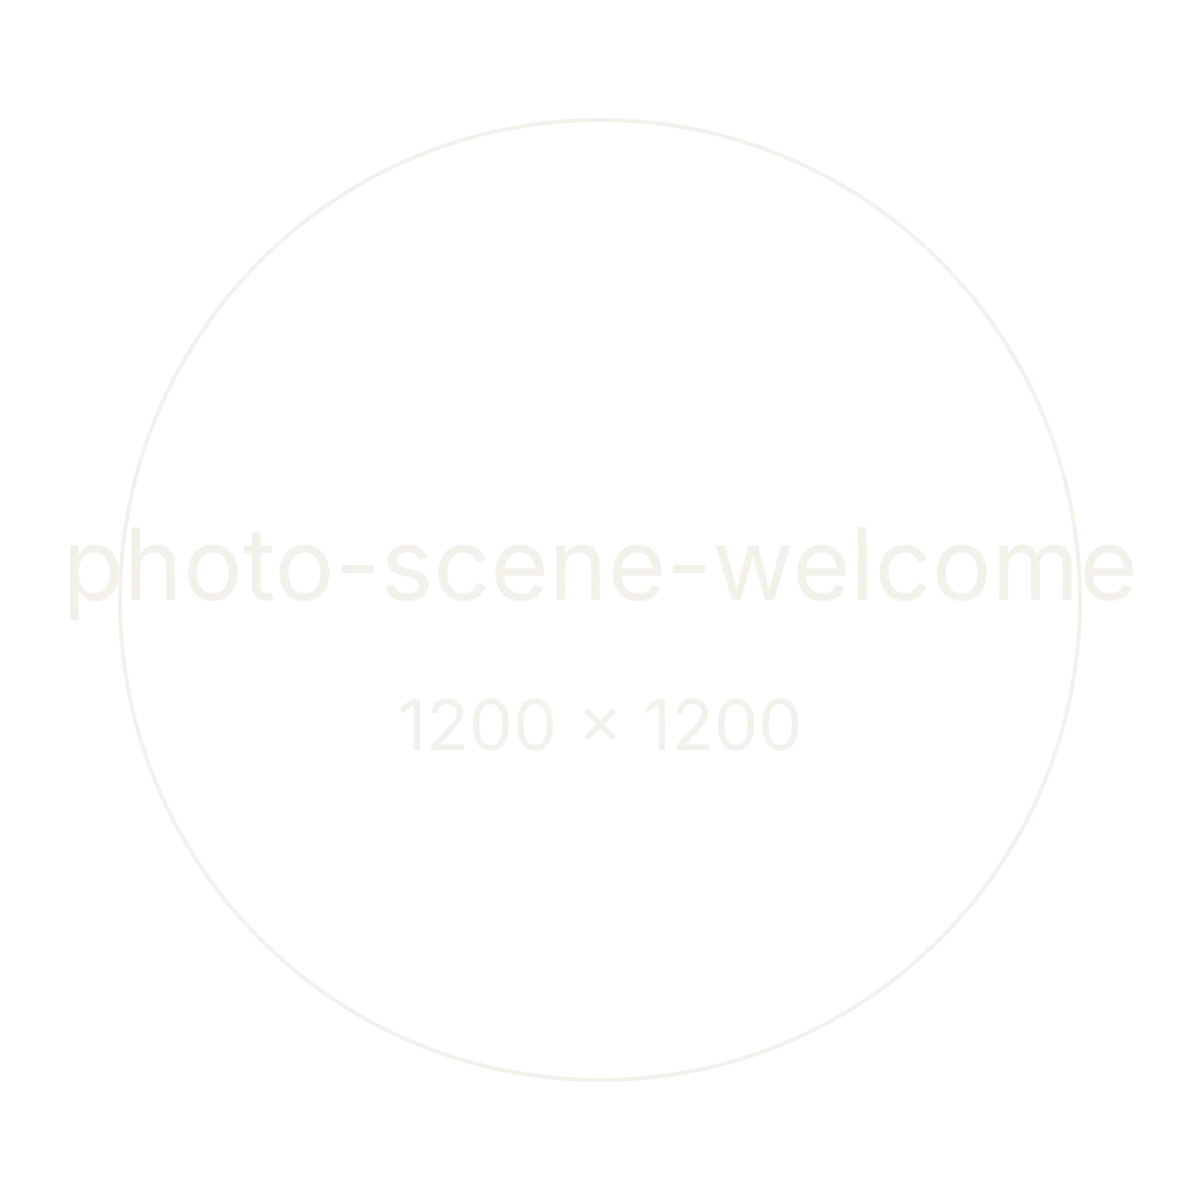
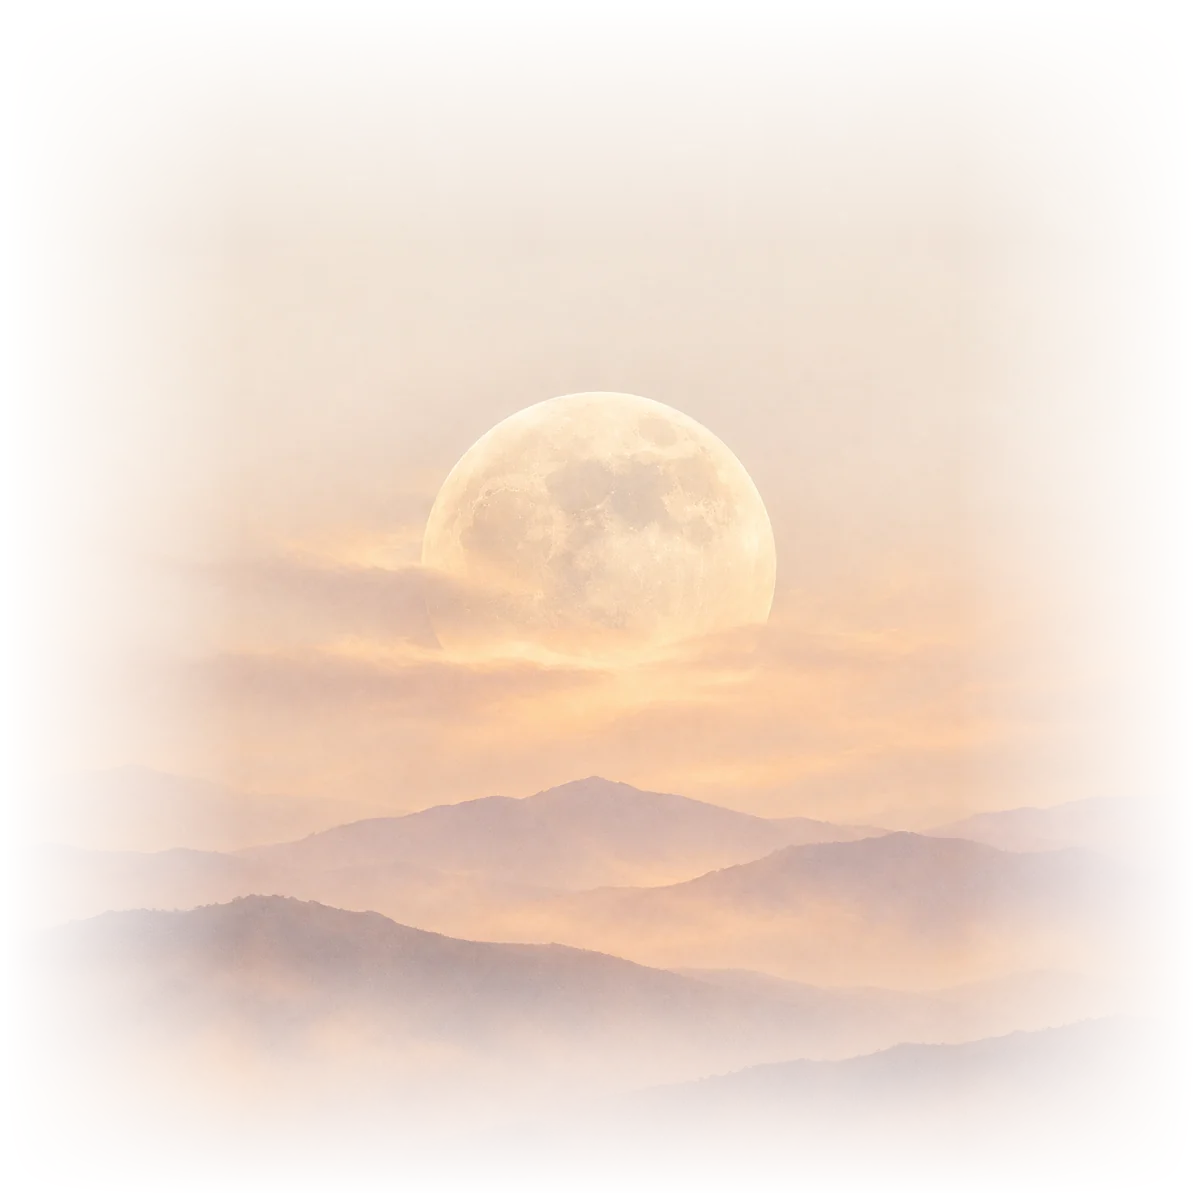
feat(assets): image d'accueil définitive, photos visibles sur fond clair
Script d'import des photos (dimensions du registre, bords fondus vers la transparence).
L'image d'accueil illustre aussi la carte d'horoscope de l'onglet Accueil.

Claude-Session: https://claude.ai/code/session_011dJqJYMKgc5MMgHRWGadNE

diff --git a/scripts/assets/import-photo.ts b/scripts/assets/import-photo.ts
@@ -1,0 +1,39 @@
+// `node scripts/assets/import-photo.ts <source> <identifiant>` — met une image livrée au format du registre :
+// dimensions de l'entrée, bords fondus vers la transparence (ADR-007), WebP sous le poids maximal.
+import { writeFileSync } from 'node:fs';
+import sharp from 'sharp';
+import { loadManifest } from './manifest.ts';
+
+const [source, id] = process.argv.slice(2);
+const asset = loadManifest().assets.find((a) => a.id === id);
+if (!source || !asset || asset.format !== 'webp' || asset.width === null || asset.height === null) {
+  console.error('Usage : import-photo.ts <source> <identifiant d’une photo webp du registre>');
+  process.exit(1);
+}
+const { width, height } = asset;
+// Masque : opaque au centre, fondu sur le dernier cinquième de chaque bord.
+const mask = Buffer.from(`<svg xmlns="http://www.w3.org/2000/svg" width="${width}" height="${height}">
+  <defs>
+    <linearGradient id="h" x1="0" x2="1" y1="0" y2="0"><stop offset="0" stop-color="#000"/><stop offset="0.2" stop-color="#fff"/><stop offset="0.8" stop-color="#fff"/><stop offset="1" stop-color="#000"/></linearGradient>
+    <linearGradient id="v" x1="0" x2="0" y1="0" y2="1"><stop offset="0" stop-color="#000"/><stop offset="0.2" stop-color="#fff"/><stop offset="0.8" stop-color="#fff"/><stop offset="1" stop-color="#000"/></linearGradient>
+  </defs>
+  <rect width="100%" height="100%" fill="url(#h)"/>
+  <rect width="100%" height="100%" fill="url(#v)" style="mix-blend-mode:multiply"/>
+</svg>`);
+const alpha = await sharp(mask).resize(width, height).greyscale().extractChannel(0).raw().toBuffer();
+// Deux temps : sharp n'applique pas ses opérations dans l'ordre d'appel, la couche alpha se joint sur des pixels bruts.
+const rgb = await sharp(source).resize(width, height, { fit: 'cover', position: 'centre' }).removeAlpha().raw().toBuffer();
+const rgba = Buffer.alloc(width * height * 4);
+for (let i = 0; i < width * height; i += 1) {
+  rgba[i * 4] = rgb[i * 3] ?? 0; rgba[i * 4 + 1] = rgb[i * 3 + 1] ?? 0; rgba[i * 4 + 2] = rgb[i * 3 + 2] ?? 0; rgba[i * 4 + 3] = alpha[i] ?? 0;
+}
+for (const quality of [86, 80, 72, 64, 56]) {
+  const out = await sharp(rgba, { raw: { width, height, channels: 4 } }).webp({ quality, alphaQuality: 90, effort: 6 }).toBuffer();
+  if (out.length <= asset.maxBytes) {
+    writeFileSync(asset.path, out);
+    console.log(`${asset.path} : ${width} × ${height}, ${out.length} octets, qualité ${quality}`);
+    process.exit(0);
+  }
+}
+console.error(`${id} : impossible de tenir sous ${asset.maxBytes} octets`);
+process.exit(1);

diff --git a/apps/mobile/src/assets/registry.generated.ts b/apps/mobile/src/assets/registry.generated.ts
@@ -60,4 +60,4 @@ export const assetModules = {
 export type AssetId = keyof typeof assetModules;
 
 /** Fichiers encore provisoires : un décor ne les affiche pas tant que le fichier définitif n'est pas livré. */
-export const provisionalAssetIds: ReadonlySet<string> = new Set(["icon-app-ios","icon-app-ios-dark","icon-app-ios-tinted","splash-symbol","icon-notification","photo-sign-aries","photo-sign-taurus","photo-sign-gemini","photo-sign-cancer","photo-sign-leo","photo-sign-virgo","photo-sign-libra","photo-sign-scorpio","photo-sign-sagittarius","photo-sign-capricorn","photo-sign-aquarius","photo-sign-pisces","photo-body-sun","photo-body-moon","photo-body-mercury","photo-body-venus","photo-body-mars","photo-body-jupiter","photo-body-saturn","photo-body-uranus","photo-body-neptune","photo-body-pluto","photo-group-friends","photo-group-couple","photo-group-family","photo-group-colleagues","photo-scene-welcome","photo-scene-notif-primer","photo-scene-account","photo-scene-paywall","photo-scene-empty-groups","photo-scene-offline","photo-scene-error","photo-scene-age-gate","texture-grain","sfx-reveal","sfx-tap-soft","sfx-share","sfx-join","sfx-aurora-rise"]);
+export const provisionalAssetIds: ReadonlySet<string> = new Set(["icon-app-ios","icon-app-ios-dark","icon-app-ios-tinted","splash-symbol","icon-notification","photo-sign-aries","photo-sign-taurus","photo-sign-gemini","photo-sign-cancer","photo-sign-leo","photo-sign-virgo","photo-sign-libra","photo-sign-scorpio","photo-sign-sagittarius","photo-sign-capricorn","photo-sign-aquarius","photo-sign-pisces","photo-body-sun","photo-body-moon","photo-body-mercury","photo-body-venus","photo-body-mars","photo-body-jupiter","photo-body-saturn","photo-body-uranus","photo-body-neptune","photo-body-pluto","photo-group-friends","photo-group-couple","photo-group-family","photo-group-colleagues","photo-scene-notif-primer","photo-scene-account","photo-scene-paywall","photo-scene-empty-groups","photo-scene-offline","photo-scene-error","photo-scene-age-gate","texture-grain","sfx-reveal","sfx-tap-soft","sfx-share","sfx-join","sfx-aurora-rise"]);

diff --git a/apps/mobile/src/features/home/HomeScreen.tsx b/apps/mobile/src/features/home/HomeScreen.tsx
@@ -6,7 +6,7 @@ import { useTranslation } from 'react-i18next';
 import { ActivityIndicator, Pressable, View } from 'react-native';
 import type { GlyphId } from '@/assets/registry';
 import { Glyph } from '@/components/astro/Glyph';
-import { Button, Card, Screen, Text } from '@/components/ui';
+import { Button, Card, PhotoHalo, Screen, Text } from '@/components/ui';
 import { toIsoDate } from '@/features/onboarding/draft';
 import { feedback } from '@/services/feedback';
 import { useDaily } from '@/services/query';
@@ -39,7 +39,8 @@ export function HomeScreen() {
         <Text variant="label" color="textSecondary">{new Intl.DateTimeFormat(locale, { weekday: 'long', day: 'numeric', month: 'long', year: 'numeric' }).format(today)}</Text>
       </View>
       <Card raised glow>
-        <Text variant="label" color="accent">{t('home.horoscopeLabel')}</Text>
+        <PhotoHalo id="photo-scene-welcome" height={theme.spacing.s56 * 4} />
+        <Text variant="label" color="accentText">{t('home.horoscopeLabel')}</Text>
         {daily.isPending ? <ActivityIndicator color={theme.colors.accent} accessibilityLabel={t('common.loading')} />
           : horoscope ? (
             <>

diff --git a/apps/mobile/src/components/ui/PhotoHalo.tsx b/apps/mobile/src/components/ui/PhotoHalo.tsx
@@ -9,7 +9,7 @@ export function PhotoHalo({ id, height, strength = 'halo' }: { id: AssetId; heig
   if (isProvisional(id)) return null;
   return (
     <View pointerEvents="none" accessible={false} style={[styles.box, { height, borderRadius: theme.radii.xl }]}>
-      <Image source={getAsset(id)} resizeMode="cover" style={[styles.image, { opacity: strength === 'halo' ? theme.opacities.photoHalo : theme.opacities.photoBackdrop }]} />
+      <Image source={getAsset(id)} resizeMode="cover" style={[styles.image, { opacity: theme.name === 'light' ? theme.opacities.photoOnLight : strength === 'halo' ? theme.opacities.photoHalo : theme.opacities.photoBackdrop }]} />
     </View>
   );
 }

diff --git a/packages/shared/src/tokens/layout.ts b/packages/shared/src/tokens/layout.ts
@@ -24,6 +24,8 @@ export const opacities = {
   disabled: 0.4, pressed: 0.8, dimmed: 0.4,
   /** Fond nébuleux et matière (ADR-007) : lueur haute, grain d'écran, grain de carte, photo en halo. */
   nebula: 0.22, grain: 0.04, grainCard: 0.05, photoHalo: 0.14, photoBackdrop: 0.15,
+  // Sur fond clair, la photo se montre presque entière : c'est elle qui porte l'ambiance (ADR-032).
+  photoOnLight: 0.85,
 } as const;
 
 /** Mouvement tactile : échelle d'un bouton pressé, décalage d'entrée des éléments révélés. */

diff --git a/docs/ASSETS.md b/docs/ASSETS.md
@@ -2,8 +2,8 @@
 
 Rapport généré par `pnpm assets:report` à partir de `assets.manifest.json`. Ne pas modifier à la main.
 
-- 125 fichiers au registre : 60 définitifs, 65 provisoires.
-- 58 fichiers provisoires bloquent une mise en production.
+- 125 fichiers au registre : 61 définitifs, 64 provisoires.
+- 57 fichiers provisoires bloquent une mise en production.
 
 ## Livrer un fichier
 
@@ -61,7 +61,6 @@ Rapport généré par `pnpm assets:report` à partir de `assets.manifest.json`. 
 
 | Fichier | Dimensions | Transparence | Poids max. | Bloquant | Contraintes |
 |---|---|---|---|---|---|
-| `photo-scene-welcome.webp` | 1200 × 1200 | oui | 400 Ko | oui | Photo céleste (ADR-007) : lune, ciel étoilé ou nébuleuse, bords fondus vers la transparence, violet désaturé et bleu nuit, aucun texte. Origine et licence à consigner. |
 | `photo-scene-notif-primer.webp` | 1200 × 1200 | oui | 400 Ko | oui | Photo céleste (ADR-007) : lune, ciel étoilé ou nébuleuse, bords fondus vers la transparence, violet désaturé et bleu nuit, aucun texte. Origine et licence à consigner. |
 | `photo-scene-account.webp` | 1200 × 1200 | oui | 400 Ko | oui | Photo céleste (ADR-007) : lune, ciel étoilé ou nébuleuse, bords fondus vers la transparence, violet désaturé et bleu nuit, aucun texte. Origine et licence à consigner. |
 | `photo-scene-paywall.webp` | 1200 × 1200 | oui | 400 Ko | oui | Photo céleste (ADR-007) : lune, ciel étoilé ou nébuleuse, bords fondus vers la transparence, violet désaturé et bleu nuit, aucun texte. Origine et licence à consigner. |
@@ -191,6 +190,7 @@ Rapport généré par `pnpm assets:report` à partir de `assets.manifest.json`. 
 | `apps/mobile/assets/glyphs/modes/glyph-mode-soft.svg` | Création interne (tracés géométriques 24×24) | Création interne | viewBox 0 0 24 24, un seul <path>, trait seul de 1,5 à extrémités arrondies, sans remplissage, transformation ni style ; marge intérieure de 2. |
 | `apps/mobile/assets/glyphs/modes/glyph-mode-cash.svg` | Création interne (tracés géométriques 24×24) | Création interne | viewBox 0 0 24 24, un seul <path>, trait seul de 1,5 à extrémités arrondies, sans remplissage, transformation ni style ; marge intérieure de 2. |
 | `apps/mobile/assets/glyphs/modes/glyph-mode-expert.svg` | Création interne (tracés géométriques 24×24) | Création interne | viewBox 0 0 24 24, un seul <path>, trait seul de 1,5 à extrémités arrondies, sans remplissage, transformation ni style ; marge intérieure de 2. |
+| `apps/mobile/assets/photos/scenes/photo-scene-welcome.webp` | Image générée avec Higgsfield (modèle GPT Image 2.6) sur le compte du fondateur, 2026-11-26 | Sortie d’IA générée par le fondateur ; droits d’usage selon les conditions de Higgsfield, à confirmer avant publication | Lune voilée au-dessus de montagnes dans la brume (ADR-032, planche « ivoire et doré »), bords fondus vers la transparence, aucun texte. |
 | `apps/mobile/assets/cards/card-bg-roast-soft.webp` | Création interne (scripts/assets/card-backgrounds.ts) | Création interne | Fond de la carte en mode Lune. Zones du §16.7 laissées calmes. Aucun texte. |
 | `apps/mobile/assets/cards/card-bg-roast-cash.webp` | Création interne (scripts/assets/card-backgrounds.ts) | Création interne | Fond de la carte en mode Mars. Aucun texte. |
 | `apps/mobile/assets/cards/card-bg-roast-expert.webp` | Création interne (scripts/assets/card-backgrounds.ts) | Création interne | Fond de la carte en mode Saturne. Aucun texte. |

diff --git a/docs/STATE.md b/docs/STATE.md
@@ -110,6 +110,7 @@ Vérifié à chaque lot, codes de retour lus : `pnpm typecheck`, `pnpm lint`, `p
 - **Lot A1, fait aussi** : Manrope retirée (ADR-031), titres fonctionnels et étiquettes en Inter Medium ; non revu à l'écran.
 - **Direction « ivoire et doré » (ADR-032)** : thème clair par défaut en place. Vérifié : typecheck, lint, 371 tests, export iOS ; rendu vu dans un navigateur sur l'accueil, la révélation, Mon ciel, Aujourd'hui et le paywall. Non vérifié sur iPhone.
 - **Cinq onglets et accueil (2026-11-26)** : Accueil (salutation, horoscope du jour, raccourcis, fonctions V2 marquées « à venir » et non cliquables), Horoscope (ancien « Aujourd'hui »), Explorer (Mon thème), Relations (groupes), Profil (anciens réglages). Les routes internes `today`, `sky`, `groups` gardent leur nom. Vérifié : typecheck, lint, 371 tests, export iOS ; accueil vu dans un navigateur contre la production. Non vérifié : la barre d'onglets native et ses icônes système sur iPhone.
+- **Images (2026-11-26)** : image d'accueil générée avec Higgsfield, choisie par le fondateur (variante B), installée et promue (`scripts/assets/import-photo.ts` : dimensions du registre, bords fondus). Sur fond clair les photos s'affichent à 85 %. Trois signes générés (Taureau, Lion, Poissons), non installés, non encore montrés. Série interrompue : Higgsfield a refusé neuf demandes (limite quotidienne du compte). Droits d'usage des images générées à confirmer avant publication. Non vu à l'écran.
 - **Écarts avec les maquettes, à traiter** : pas de menu latéral (les fonctions à venir sont listées en bas de l'accueil, faute d'icône de menu au registre) ; pas d'images ; Horoscope sans vues Semaine et Mois (non construites côté serveur) ; Relations sans compatibilité à deux ; Profil encore présenté comme des réglages ; mot-symbole du logo.
 - **Lot A1, reste** : grille et rayons, identité visuelle personnelle, logo en mot-symbole, inventaire d'icônes, fichiers définitifs. Lots A2 à A4 : non commencés (plan en SPEC §27.9).
 - Lot 5 de la mission précédente (adaptateur d'IA) : non commencé, fournisseur toujours ouvert. Il est repris par le Lot 2 du nouveau chantier.
